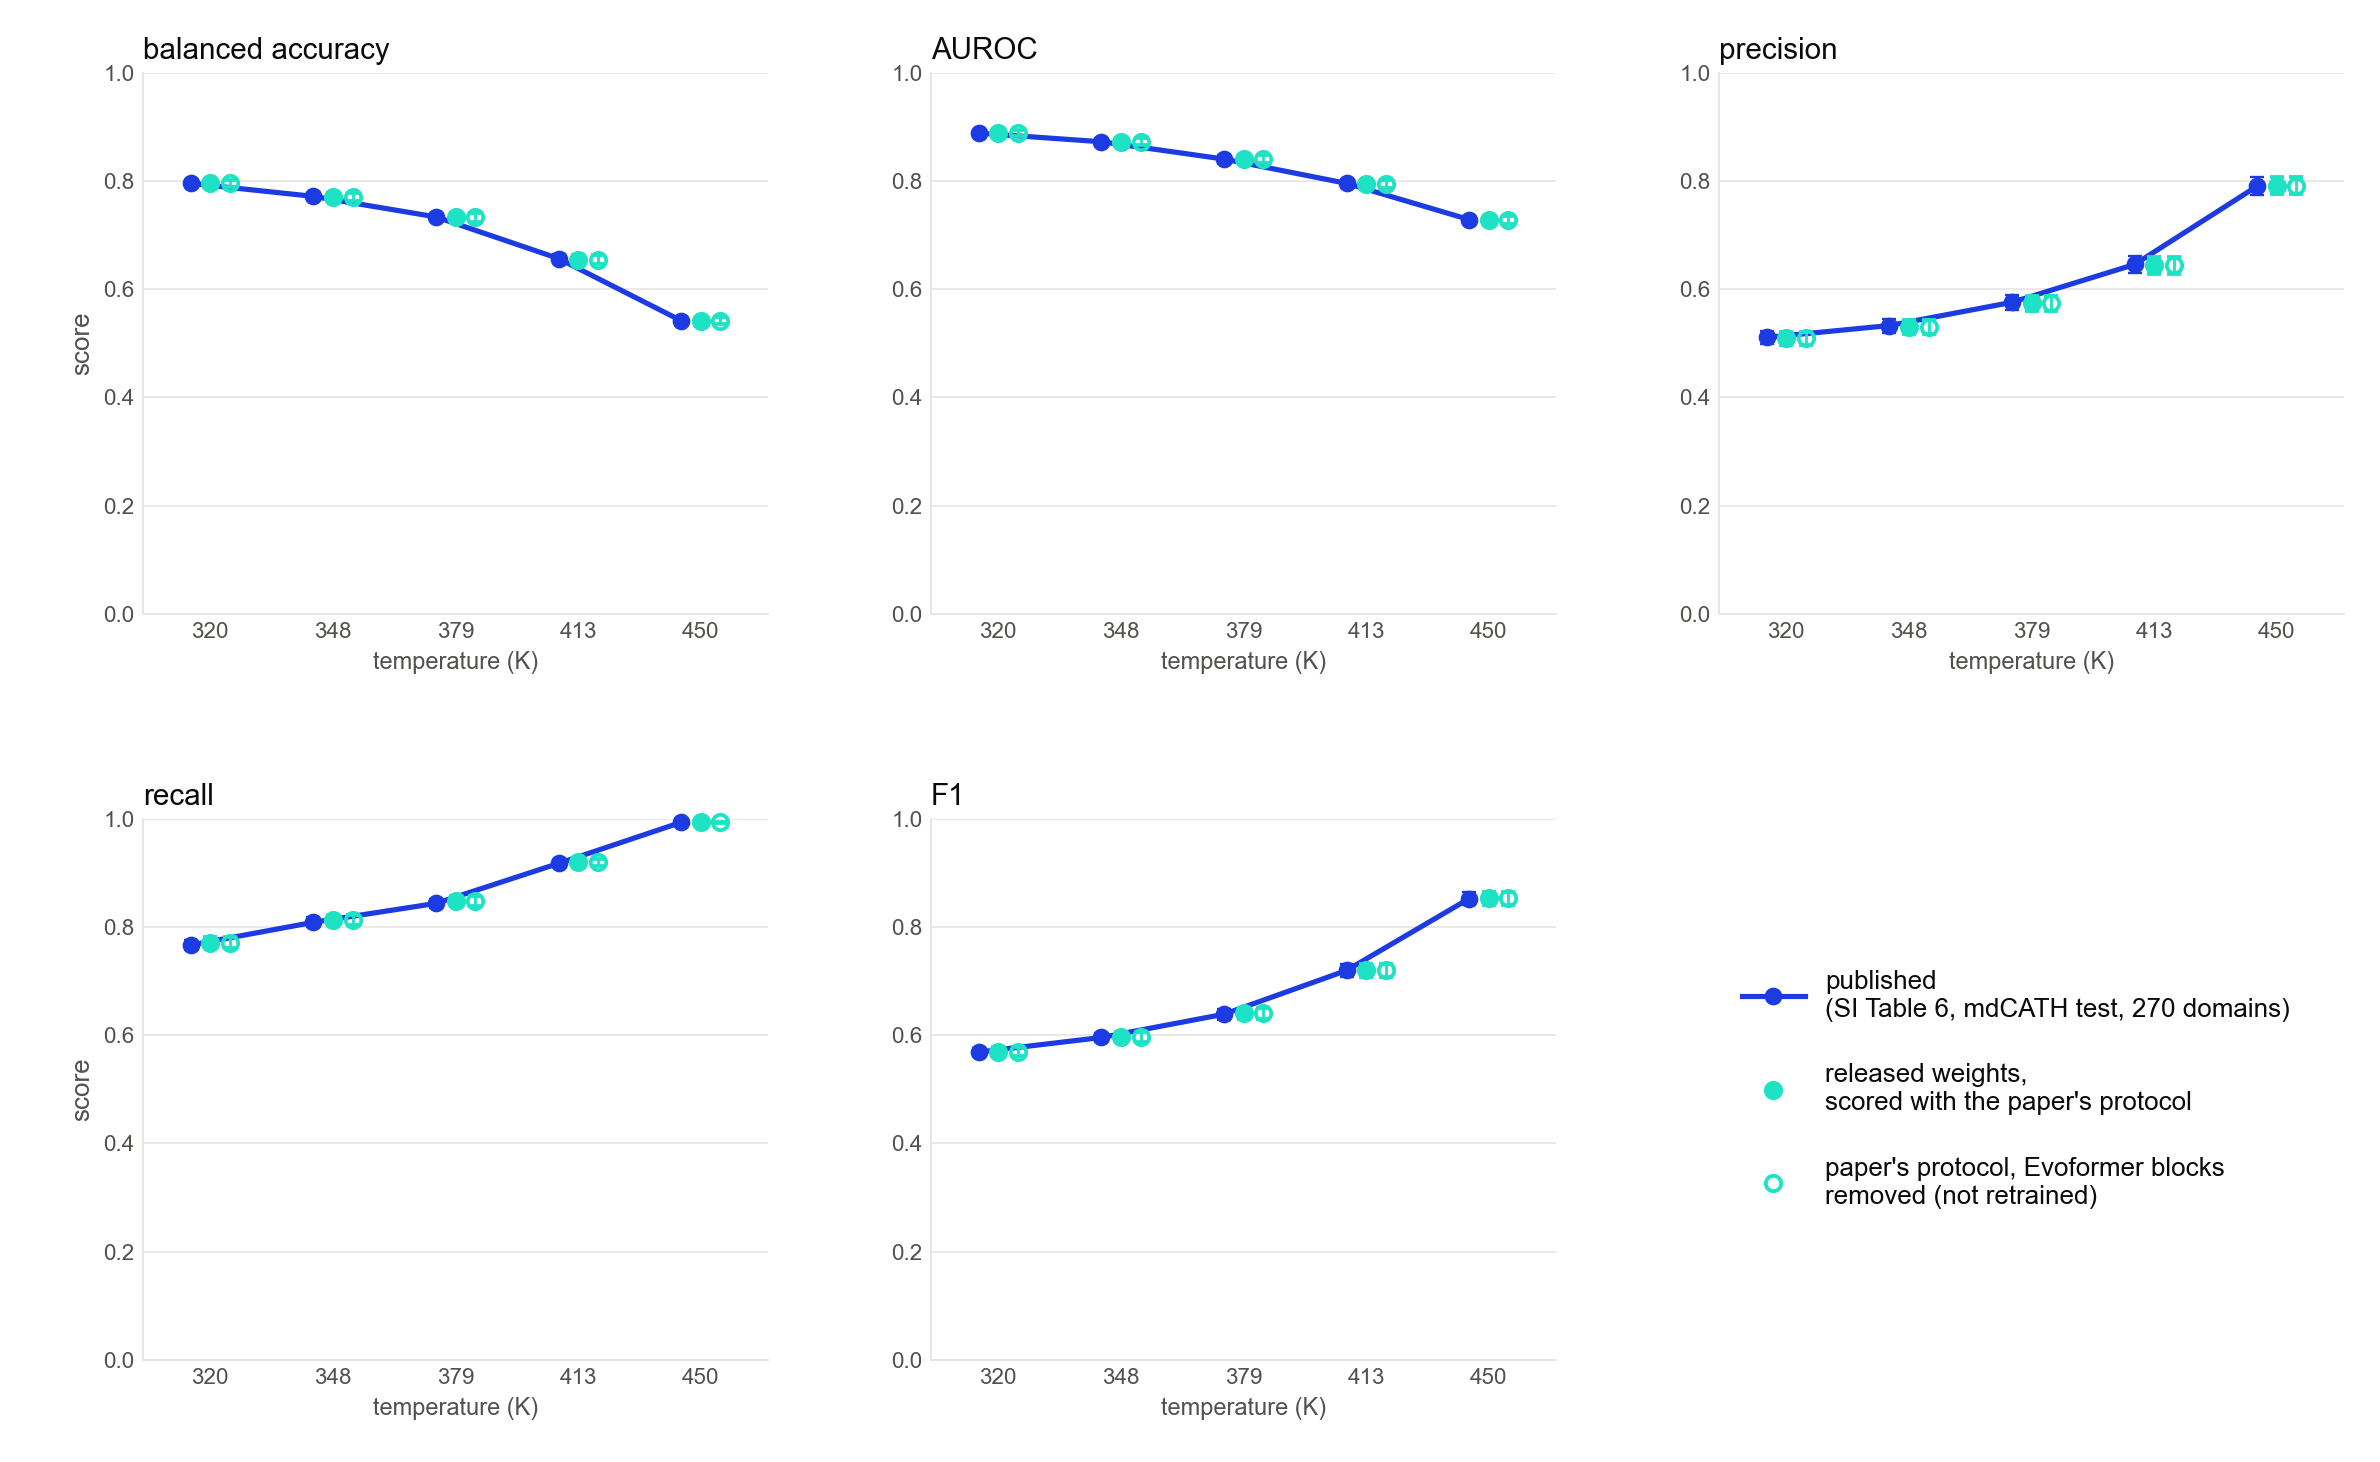
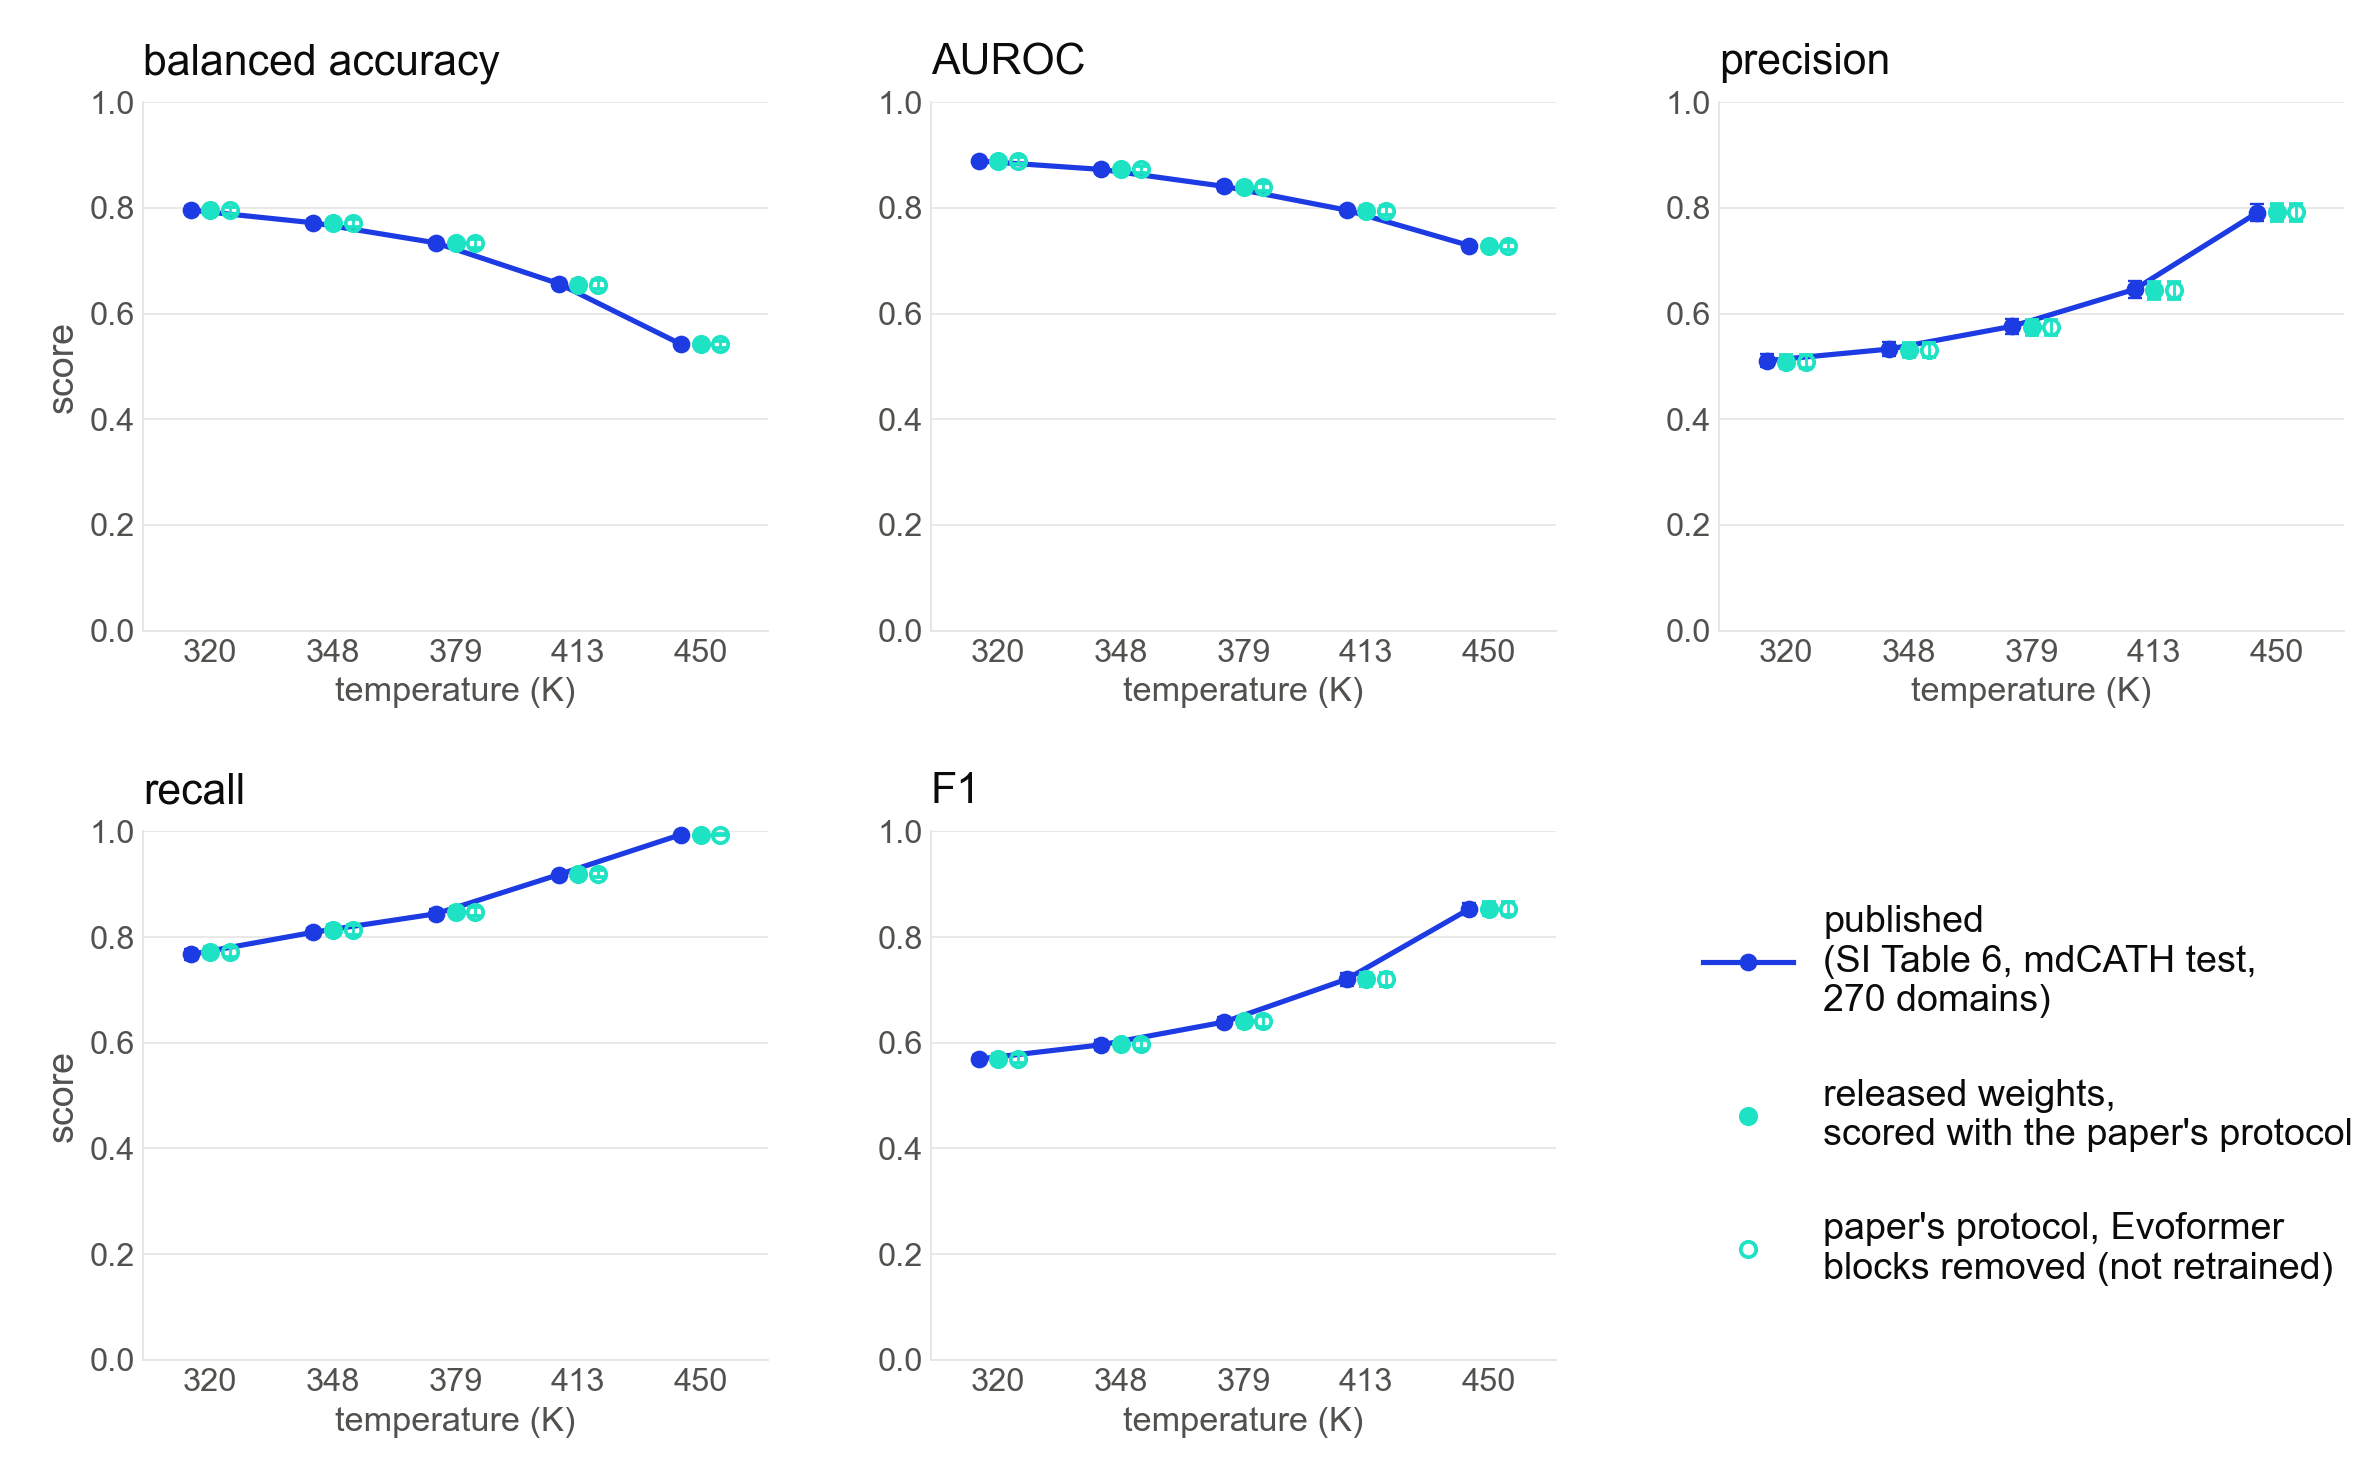
figures/transparent: larger type (x1.45), legends wrapped to fit, more room under panel titles

diff --git a/investigation/scripts/plot_si_table6_reproduction.py b/investigation/scripts/plot_si_table6_reproduction.py
@@ -55,6 +55,7 @@ def main():
     args.out = args.out or ("investigation/figures/transparent/13_si_table6_reproduction.png" if args.clean
                             else "investigation/figures/reproduction/13_si_table6_reproduction.png")
     hollow = "none" if args.clean else "white"     # hollow markers stay see-through on a transparent figure
+    fs = 1.45 if args.clean else 1.0               # text scale: larger type for slides
     d = pd.read_csv(args.csv)
     d = d[d.variant == "sym"]
 
@@ -89,7 +90,7 @@ def main():
     plt.rcParams["font.family"] = "Arial" if args.clean else "Open Sans"
 
     fig, grid = plt.subplots(2, 3, figsize=(14, 9.4 if not args.clean else 8.6), facecolor="white")
-    fig.subplots_adjust(top=0.84 if not args.clean else 0.95, bottom=0.07, left=0.06, right=0.985,
+    fig.subplots_adjust(top=0.84 if not args.clean else 0.93, bottom=0.07, left=0.06, right=0.985,
                         wspace=0.26, hspace=0.38)
     axes = grid.ravel()[:len(PUBLISHED)]
     x = np.arange(len(TEMPS))
@@ -105,19 +106,19 @@ def main():
             ax.errorbar(x + 0.16, nm, yerr=ns, color=OURS, lw=0, elinewidth=1.2, marker="o", ms=6.5,
                         mfc=hollow, mec=OURS, mew=1.6, capsize=3, zorder=5)
         ax.set_xticks(x)
-        ax.set_xticklabels([f"{T}" for T in TEMPS], fontsize=10, color=INK)
+        ax.set_xticklabels([f"{T}" for T in TEMPS], fontsize=10 * fs, color=INK)
         ax.set_xlim(-0.55, len(TEMPS) - 0.45)
-        ax.set_xlabel("temperature (K)", color=INK_2, fontsize=10)
+        ax.set_xlabel("temperature (K)", color=INK_2, fontsize=10 * fs)
         if i % 3 == 0:
-            ax.set_ylabel("score", color=INK_2, fontsize=11)
-        ax.set_title(TITLES[m], loc="left", fontsize=12.5, color=INK)
+            ax.set_ylabel("score", color=INK_2, fontsize=11 * fs)
+        ax.set_title(TITLES[m], loc="left", fontsize=12.5 * fs, color=INK, pad=12 if args.clean else 6)
         ax.grid(axis="y", color=GRID, lw=0.7, zorder=0)
         ax.set_axisbelow(True)
         for side in ("top", "right"):
             ax.spines[side].set_visible(False)
         for side in ("left", "bottom"):
             ax.spines[side].set_color(GRID)
-        ax.tick_params(colors=INK_2, labelsize=9.5, length=0)
+        ax.tick_params(colors=INK_2, labelsize=9.5 * fs, length=0)
         lo = min(min(pm), min(om))
         hi = max(max(pm), max(om))
         pad = (hi - lo) * 0.18 + 0.01
@@ -131,21 +132,24 @@ def main():
     leg_ax = grid.ravel()[len(PUBLISHED)]          # the free sixth cell holds the legend
     leg_ax.axis("off")
     leg_ax.legend(handles=[
-        Line2D([], [], color=PUB, lw=2.2, marker="o", ms=6.5, label="published\n(SI Table 6, mdCATH test, 270 domains)"),
+        Line2D([], [], color=PUB, lw=2.2, marker="o", ms=6.5,
+               label="published\n(SI Table 6, mdCATH test,\n270 domains)" if args.clean else "published\n(SI Table 6, mdCATH test, 270 domains)"),
         Line2D([], [], color=OURS, lw=0, marker="o", ms=6.5, mec=OURS, mew=1.6, label="released weights,\nscored with the paper's protocol"),
         ]
         + ([Line2D([], [], color=OURS, lw=0, marker="o", ms=6.5, mfc=hollow, mew=1.6,
-                   label="paper's protocol, Evoformer blocks\nremoved (not retrained)")] if noevo is not None else []),
-        loc="center left", frameon=False, fontsize=11, labelcolor=INK, labelspacing=1.6, handlelength=2.4)
+                   label="paper's protocol, Evoformer\nblocks removed (not retrained)" if args.clean
+                   else "paper's protocol, Evoformer blocks\nremoved (not retrained)")] if noevo is not None else []),
+        loc="center left", bbox_to_anchor=(-0.08, 0.5) if args.clean else None, frameon=False,
+        fontsize=11 * fs, labelcolor=INK, labelspacing=1.6, handlelength=2.4)
     if not args.clean:
       fig.text(0.01, 0.99, "Reproducing ESM-Dynamic's MDCath Dynamic Contact Prediction Results Across Temperatures Using Released Weights",
-             fontsize=14.5, color=INK, va="top")
+             fontsize=14.5 * fs, color=INK, va="top")
       fig.text(0.01, 0.955, "Released weights, each test domain predicted at full "
              "length; mean ± standard error over domains. Paper's protocol: residue pairs ≥ 3 apart in sequence, symmetrised "
              "probability > 0.5,\nbalanced accuracy per protein as scikit-learn computes it (a domain with no non-dynamic "
              f"pairs, {', '.join(str(n) for n in nonneg)} of 270 at 320–450 K, scores its recall alone). "
              "\nHollow: the Evoformer blocks deleted from every head, not retrained: identical to the solid circles for every domain at every temperature, to the last digit. Note 13, jobs 2199271 and 2200605.",
-             fontsize=8.8, color=INK_2, va="top", linespacing=1.45)
+             fontsize=8.8 * fs, color=INK_2, va="top", linespacing=1.45)
     out = Path(args.out)
     out.parent.mkdir(parents=True, exist_ok=True)
     if args.clean:

diff --git a/investigation/scripts/plot_atlas_table2_reproduction.py b/investigation/scripts/plot_atlas_table2_reproduction.py
@@ -42,6 +42,7 @@ def main():
     args.out = args.out or ("investigation/figures/transparent/13_atlas_table2_reproduction.png" if args.clean
                             else "investigation/figures/reproduction/13_atlas_table2_reproduction.png")
     hollow = "none" if args.clean else "white"     # the hatched bar's fill stays see-through when transparent
+    fs = 1.45 if args.clean else 1.0               # text scale: larger type for slides
     r = json.loads(Path(args.results).read_text())
     pub = r["published"]["320"]
     paper_protocol = r["summary"]["crop256/unsym/320K"]
@@ -54,8 +55,8 @@ def main():
     plt.rcParams["font.family"] = "Arial" if args.clean else "Open Sans"
 
     fig, grid = plt.subplots(2, 3, figsize=(14, 9.4 if not args.clean else 8.8), facecolor="white")
-    fig.subplots_adjust(top=0.80 if not args.clean else 0.88, bottom=0.04, left=0.06, right=0.985,
-                        wspace=0.26, hspace=0.30)
+    fig.subplots_adjust(top=0.80 if not args.clean else 0.84, bottom=0.04, left=0.06, right=0.985,
+                        wspace=0.26, hspace=0.30 if not args.clean else 0.36)
     axes = grid.ravel()
     series = [(PUB, None, lambda m: tuple(pub[m])),
               (OURS, None, lambda m: (paper_protocol[m]["mean"], paper_protocol[m]["se"]))]
@@ -74,39 +75,40 @@ def main():
                        linewidth=1.5)
             ax.errorbar(i, v, yerr=se, color=INK, capsize=4, elinewidth=1.1, zorder=4)
             ax.text(i, v + se + (0.02 if args.clean else top * 0.02), f"{v:.3f}", ha="center", va="bottom",
-                    fontsize=10.5, color=INK)
+                    fontsize=10.5 * fs, color=INK)
         ax.set_ylim(0, top * 1.16)
         if args.clean:       # one shared 0-1 scale across panels
             ax.set_ylim(0, 1)
             ax.set_yticks([0, 0.2, 0.4, 0.6, 0.8, 1.0])
         ax.set_xticks([])
         if k % 3 == 0:
-            ax.set_ylabel("score", color=INK_2, fontsize=11)
-        ax.set_title(title, loc="left", fontsize=12.5, color=INK)
+            ax.set_ylabel("score", color=INK_2, fontsize=11 * fs)
+        ax.set_title(title, loc="left", fontsize=12.5 * fs, color=INK, pad=22 if args.clean else 6)
         ax.grid(axis="y", color=GRID, lw=0.7, zorder=0)
         ax.set_axisbelow(True)
         for side in ("top", "right"):
             ax.spines[side].set_visible(False)
         for side in ("left", "bottom"):
             ax.spines[side].set_color(GRID)
-        ax.tick_params(colors=INK_2, labelsize=9.5, length=0)
+        ax.tick_params(colors=INK_2, labelsize=9.5 * fs, length=0)
     from matplotlib.patches import Patch
-    fig.legend(handles=[Patch(color=PUB, label="published (Table 2, ATLAS test, 82 chains)"),
-                        Patch(color=OURS, label="released weights, scored as the paper (train.py protocol)"),
+    nl = "\n" if args.clean else " "       # two-line labels keep the larger legend inside the figure
+    fig.legend(handles=[Patch(color=PUB, label=f"published{nl}(Table 2, ATLAS test, 82 chains)"),
+                        Patch(color=OURS, label=f"released weights, scored as{nl}the paper (train.py protocol)"),
                         ]
-               + ([Patch(fc=hollow, ec=OURS, hatch="////", label="same, Evoformer blocks removed (not retrained)")]
+               + ([Patch(fc=hollow, ec=OURS, hatch="////", label=f"same, Evoformer blocks{nl}removed (not retrained)")]
                   if noevo is not None else []),
-               loc="upper left", bbox_to_anchor=(0.055, 0.875 if not args.clean else 0.975), ncol=3, frameon=False, fontsize=10, labelcolor=INK,
+               loc="upper left", bbox_to_anchor=(0.055, 0.875 if not args.clean else 0.975), ncol=3, frameon=False, fontsize=10 * fs, labelcolor=INK,
                handlelength=2.0, columnspacing=1.6)
     if not args.clean:
       fig.text(0.01, 0.99, "Reproducing ESM-Dynamic's ATLAS Dynamic Contact Prediction Results Using Released Weights",
-             fontsize=14.5, color=INK, va="top")
+             fontsize=14.5 * fs, color=INK, va="top")
       fig.text(0.01, 0.955, "Released weights, 320 K output against the 300 K "
              "ATLAS ensembles; mean ± standard error over 82 chains. Teal: scored as train.py scores (256-residue random "
              "crops,\nraw logits > 0.5), the only protocol that matches all six metrics within one standard error. "
              "Hatched: the Evoformer blocks deleted from every head, not retrained:\nidentical to teal for every chain, to "
              "the last digit. Note 12, jobs 2158167 and 2200604.",
-             fontsize=8.8, color=INK_2, va="top", linespacing=1.45)
+             fontsize=8.8 * fs, color=INK_2, va="top", linespacing=1.45)
     out = Path(args.out)
     out.parent.mkdir(parents=True, exist_ok=True)
     if args.clean:
